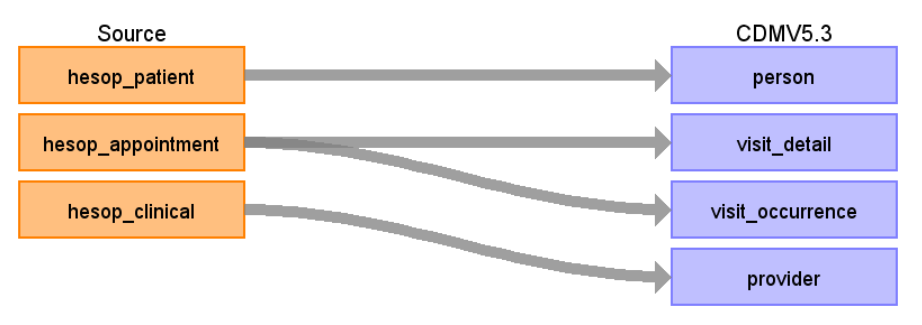
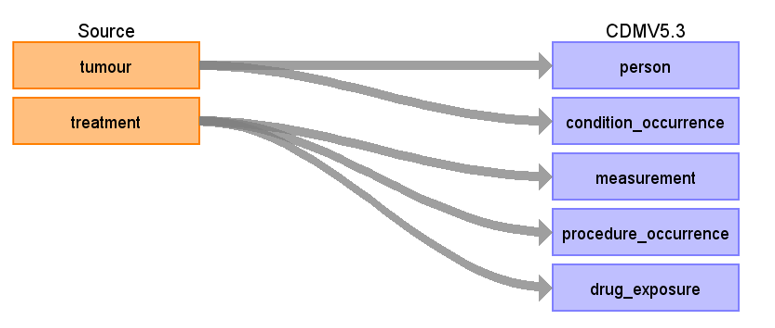
Updated DOCs

diff --git a/NCRAS/NCRAS_Measurement.md b/NCRAS/NCRAS_Measurement.md
@@ -1,0 +1,42 @@
+---
+layout: default
+title: Measurement
+nav_order: 6
+parent: NCRAS
+description: "Measurement mapping from hesop_appointment tables"
+
+---
+
+
+# CDM Table name: VISIT_DETAIL (CDM v5.3 / v5.4)
+
+## Reading from Treatment.
+
+**Reading from Treatment to Measurement CDM v5.3**
+![](images/image3.png)
+
+**Figure.1**
+
+| Destination Field | Source field | Logic | Comment field |
+| --- | --- | --- | --- |
+|measurement_id |  |  | Autogenerate: if table is empty, start from MAX(public.measurement_id)+1|
+|person_id |e_patid  |  | PERSON_ID will be mapped from e_patid.|
+|measurement_concept_id |eventcode  |  | MEASUREMENT_CONCEPT_ID will be mapped to SNOMED Concept_id by using NCRAS_EVENTDESC_STCM.|
+|measurement_date |eventdate  |  |MEASUREMENT_DATETIME will be mapped from eventdate. |
+|measurement_datetime |eventdate  | CAST(eventdate AS DATETIME) AS MEASUREMENT_DATETIME |MEASUREMENT_DATETIME will be mapped from eventdate. |
+|measurement_time |  |  | |
+|measurement_type_concept_id |  |32818  |32818 = "EHR administration record" |
+|operator_concept_id |  |  | |
+|value_as_number | lesionsize,number_of_tumours |  | VALUE_AS_NUMBER will be mapped from lesionsize and number_of tumours.|
+|value_as_concept_id |  |  | |
+|unit_concept_id |  | 8588 |8588 = "millimeter" |
+|range_low |  |  | |
+|range_high |  |  | |
+|provider_id |  |  | |
+|visit_occurrence_id |  |  | |
+|visit_detail_id |  |  | |
+|measurement_source_value |eventcode  |  |MEASUREMENT_SOURCE_VALUE will be mapped to SNOMED Concept_id by using NCRAS_EVENTDESC_STCM.  |
+|measurement_source_concept_id |eventcode  |  |MEASUREMENT_SOURCE_CONCEPT_ID will be mapped to the exact value in the source data field eventcode |
+|unit_source_value |  |  | |
+|value_source_value |lesionsize,number_of_tumours  |  | VALUE_SOURCE_VALUE will be mapped from lesionsize and number_of tumours.|
+

diff --git a/NCRAS/NCRAS.md b/NCRAS/NCRAS.md
@@ -7,13 +7,11 @@ has_children: true
 permalink: /docs/NCRAS
 ---
 
-# Hospital Episode Statistics (HES)Outpatient Care ETL Documentation
+# National Cancer Registration and Analysis Service (NCRAS) ETL Documentation
 
-These materials are meant to serve as documentation and reference for how the [HES OP](https://cprd.com/sites/default/files/2022-02/Documentation_HES_OP_set21.pdf) dataset was converted to the [OMOP Common Data Model (CDM)](https://ohdsi.github.io/CommonDataModel/).
+These materials are meant to serve as documentation and reference for how the NCRAS dataset was converted to the [OMOP Common Data Model (CDM)](https://ohdsi.github.io/CommonDataModel/).
 
-The image below (Figure.1) shows a high-level diagram of how the native tables in the HES OP database were mapped to the OMOP CDM. The main HES OP tables converted include: (hesop_patient, hesop_appointment, hesop_clinical).
-
-*HES OP source Data Mapping for CDM v5.3 & CDM v5.4*
+*NCRAS Data Mapping for CDM v5.3*
 
 ![](images/image1.png)
 

diff --git a/NCRAS/NCRAS_Person.md b/NCRAS/NCRAS_Person.md
@@ -9,10 +9,7 @@ description: "Person mapping from HES OP hesop_patient table"
 
 # CDM Table name: PERSON (CDM v5.3 / v5.4)
 
-## Reading from hesop_patient
-
-The patients mapped to the CDM from HES OP in this instance were restricted to those with a match_rank equal to one or two and the others were discarded.
-
+## Reading from Tumour
 
 
 ![](images/image2.png)

diff --git a/NCRAS/NCRAS_Drug_exposure.md b/NCRAS/NCRAS_Drug_exposure.md
@@ -1,7 +1,7 @@
 ---
 layout: default
-title: Procedure_occurrence
-nav_order: 7
+title: Drug_exposure
+nav_order: 8
 parent: NCRAS
 description: "Visit_Occurrence mapping from hesop_appointment table"
 

diff --git a/NCRAS/NCRAS_Condition_Occurrence.md b/NCRAS/NCRAS_Condition_Occurrence.md
@@ -1,6 +1,6 @@
 ---
 layout: default
-title: Provider
+title: Condition_occurrence
 nav_order: 5
 parent: NCRAS
 description: "Provider mapping from HES OP hesop_clinical table"
